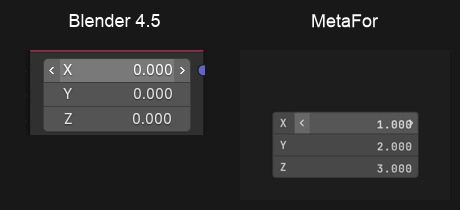
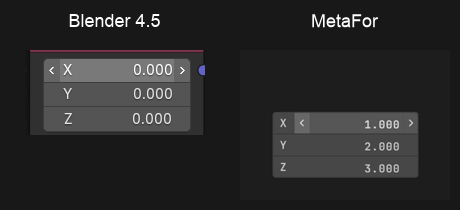
project(UI-015.8.11): record numeric inset result

Changed region(s): [[0.7913, 0.7714, 0.913, 0.8286], [0.7913, 0.6571, 0.913, 0.7429], [0.7913, 0.5714, 0.913, 0.6286]]

diff --git a/project/tasks/UI-015.md b/project/tasks/UI-015.md
@@ -1172,8 +1172,8 @@ correction slice for already recorded roles, not a new theme.
 
 #### UI-015.8.11 — Не перекрывать правую стрелку числового поля значением
 
-Статус и исполнитель: `IN_PROGRESS`, руководитель текущей задачи; подготовка
-предшествует production patch, UI-015.10 ждёт этот correction.
+Статус и исполнитель: `SOURCE/LIVE PASS`, source commit `4ad33fcda`,
+source-fresh result готов; parent owner acceptance остаётся UI-015.10.
 
 Классификация: новый live visual regression того же Elements numeric owner,
 обнаруженный только в equal-scale matrix. UI-015.8.5 ввёл both-arrow hover law,
@@ -1189,7 +1189,7 @@ NumberInput, Vector/Rotation/Matrix, Field и Node используют один
 
 Наблюдаемое расхождение: source-fresh Components PID `84831`, target `D0775…`,
 route `/vector-input/basic/default`, native `1920×1088 @2`; pointer X row
-`(880,573)` даёт accepted canvas/console `0`, но `matrix-vector-meta.png`
+`(880,573)` даёт accepted canvas/console `0`, но `matrix-vector-meta-red.png`
 показывает только left arrow. Right-aligned `1.000` занимает правую handle zone
 и закрывает right icon. Owner capture
 `vector-right-arrow-overlap-owner-red.png` подтверждает тот же эффект на Z:
@@ -1213,7 +1213,31 @@ idle/left/center/right/editing; caret/selection/click index и step/scrub/cancel
 restart/reload и same-DPR captures standalone Number/Integer, Vector и тот же
 Vector внутри Node, console `0`. Затем UI-015.10 пересобирает vector row.
 
-Подготовительный commit: pending.
+Подготовительный commit: `24df15ed5`.
+
+Результат: Elements вычисляет один numeric content rect с left/right inset
+`handleWidth + tightGap` для idle/hover/edit. Text, placeholder, selection,
+caret и pointer index используют один origin; icon paint/gesture lifecycle не
+менялись. Components не получили production workaround: NumberInput,
+IntegerInput, Vector и Node наследуют общий law.
+
+Source gates: focused Elements/Vector/Node `49/49`; Elements `155/155` (1247),
+Components `153/153` (1520), delivery `18/18` (536); six package/playground
+typechecks и three split browser builds green. Совместный запуск нескольких
+Bun.build-heavy test files дал только entry read race; каждый canonical gate
+изолированно прошёл.
+
+После Codex HUP `$ui-dev ensure` source-fresh поднял Elements/Components/Node
+PIDs `2062/2247/2415`, прежние singleton targets явно reload-нуты. Native
+`1920×1088 @2`: value-only Number, labeled Integer, standalone Vector и тот же
+Vector в unlinked Transform Node показывают обе arrows, только left zone active,
+а right-aligned value заканчивается до right icon; routes preserved, focus
+emulation restored, console `0`. Exact summary:
+`project/artifacts/UI-015/numeric-inset.result.json`. Synthetic Canvas не
+является explicit owner acceptance.
+
+UI-015.10 pair `matrix-vector-meta.png`/`matrix-vector-comparison.png` пересобран
+из after-crop; RED pair сохранён отдельно с suffix `-red`.
 
 ### UI-015.9 — Подключить необходимые Components в Node UI
 
@@ -1415,8 +1439,8 @@ fake panel; multiple route показал scalar+shader; non-previewable Transfo
 
 ### UI-015.10 — Закрыть visual matrix
 
-Статус и исполнитель: `WAITING` на UI-015.8.11; UI-015.8.10 и UI-015.9.4
-имеют source/result commits, explicit owner verdict ещё требуется.
+Статус и исполнитель: `IN_PROGRESS`, руководитель текущей задачи; UI-015.8.11
+имеет source/live result, explicit owner verdict ещё требуется.
 
 Для Elements, Components, Field и Workbench получить side-by-side representative
 captures с Blender inventory: scalar, enum, vector, path, reference, collection,

diff --git a/project/artifacts/UI-015/README.md b/project/artifacts/UI-015/README.md
@@ -512,8 +512,8 @@ Automated captures prove exact canvas state, not explicit owner acceptance.
 * `matrix-vector-hover.plan.json` moves the pointer into the X numeric left
   handle and records an accepted exact-canvas PNG after two render frames.
 * `matrix-vector-meta-hover-full.png` is the source-fresh full canvas;
-  `matrix-vector-meta.png` is its logical `1×` control crop;
-  `matrix-vector-comparison.png` places that crop beside Blender 4.5
+  `matrix-vector-meta-red.png` is its logical `1×` control crop;
+  `matrix-vector-comparison-red.png` places that crop beside Blender 4.5
   `FunctionNodeInputVector.webp` without per-side rescaling.
 * `vector-right-arrow-overlap-owner-red.png`, `348×194`, SHA-256
[1 lines of base64/hex data omitted]
@@ -523,3 +523,30 @@ Automated captures prove exact canvas state, not explicit owner acceptance.
   zone is active. Fact: the left chevron/zone is visible, but right-aligned
   `1.000` covers the right chevron. This is UI-015.8.11 RED, not owner visual
   acceptance and not a failure of retained redraw.
+
+## UI-015.8.11 — Numeric handle inset result
+
+* Source commit `4ad33fcda`; after Codex HUP `$ui-dev ensure` started fresh
+  Elements/Components/Node PIDs `2062/2247/2415`, then reloaded the existing
+  targets `E208…/D077…/809…` at native `1920×1088 @2`.
+* Data-only plans `numeric-inset-{number,integer,vector,node-vector}-final.plan.json`
+  hover the left numeric zone after an independent reload and two-frame settle.
+  Every route is preserved, focus emulation restored and console is `0`.
+* Logical `1×` result crops:
+  * `numeric-inset-number-final.png`, `210×100`, SHA-256
[1 lines of base64/hex data omitted]
+  * `numeric-inset-integer-final.png`, `210×100`, SHA-256
[1 lines of base64/hex data omitted]
+  * `numeric-inset-vector-final.png`, `210×150`, SHA-256
[1 lines of base64/hex data omitted]
+  * `numeric-inset-node-vector-final.png`, `240×320`, SHA-256
[1 lines of base64/hex data omitted]
+* Fact: both arrows remain readable, only the hovered left zone is active, and
+  Number/Integer/Vector values end before the right icon in standalone and Node.
+  Exact machine summary is `numeric-inset.result.json`; synthetic evidence does
+  not set owner acceptance.
+* UI-015.10 current pair is now `matrix-vector-meta.png` plus
+  `matrix-vector-comparison.png`, SHA-256
[2 lines of base64/hex data omitted]
+  The `-red` pair remains the rejected before evidence.

diff --git a/project/TODO.md b/project/TODO.md
@@ -278,8 +278,10 @@ matrix с console0; `node-preview.result.json` хранит exact evidence. .9.4
 REVIEW. Equal-scale UI-015.10 нашла новый точный numeric visual regression:
 right-aligned value-only NumberInput внутри Vector перекрывает правую hover
 arrow, хотя standalone labeled Integer и Elements draw regressions остаются
-green. Active slice UI-015.8.11 резервирует обе generic numeric handle zones;
-UI-015.10 ждёт его source/result checkpoint и затем пересобирает matrix.
+green. UI-015.8.11 commit `4ad33fcda` теперь резервирует обе generic numeric
+handle zones; source-fresh Number/Integer/Vector/Node captures показывают обе
+arrows без перекрытия value, console0. Active slice снова UI-015.10: пересобрать
+equal-scale matrix и получить explicit owner visual verdict.
 Public Elements остаются HTML-аналогами, составные controls принадлежат
 Components; UI-015.9 сразу подключает необходимые Components в Node UI до общей
 visual matrix.
